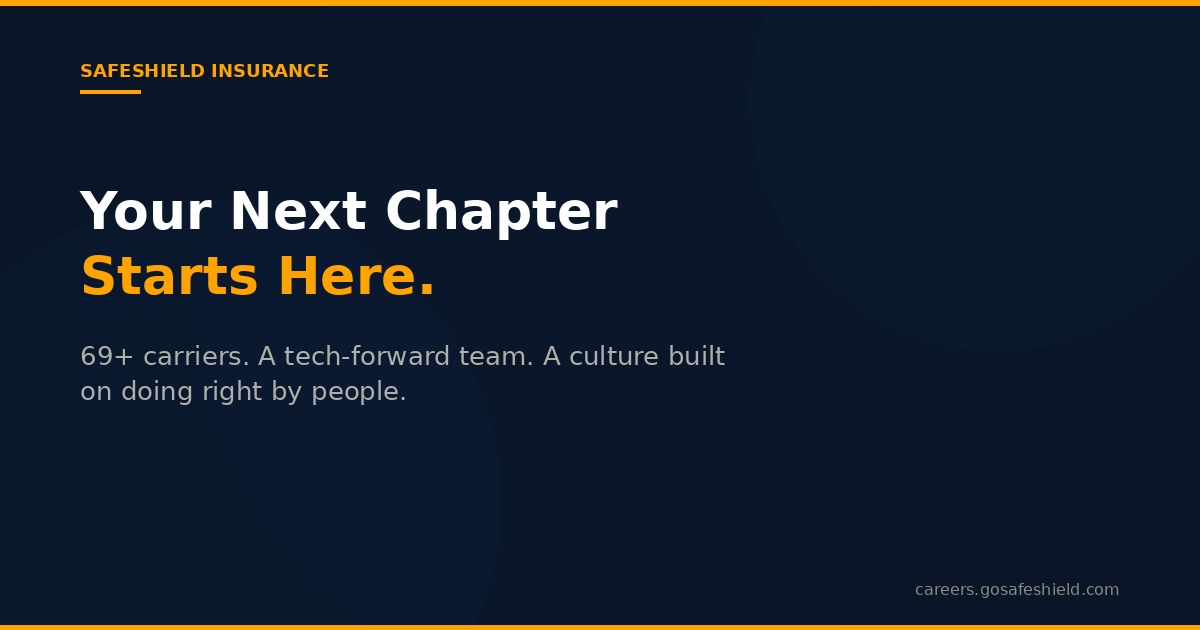
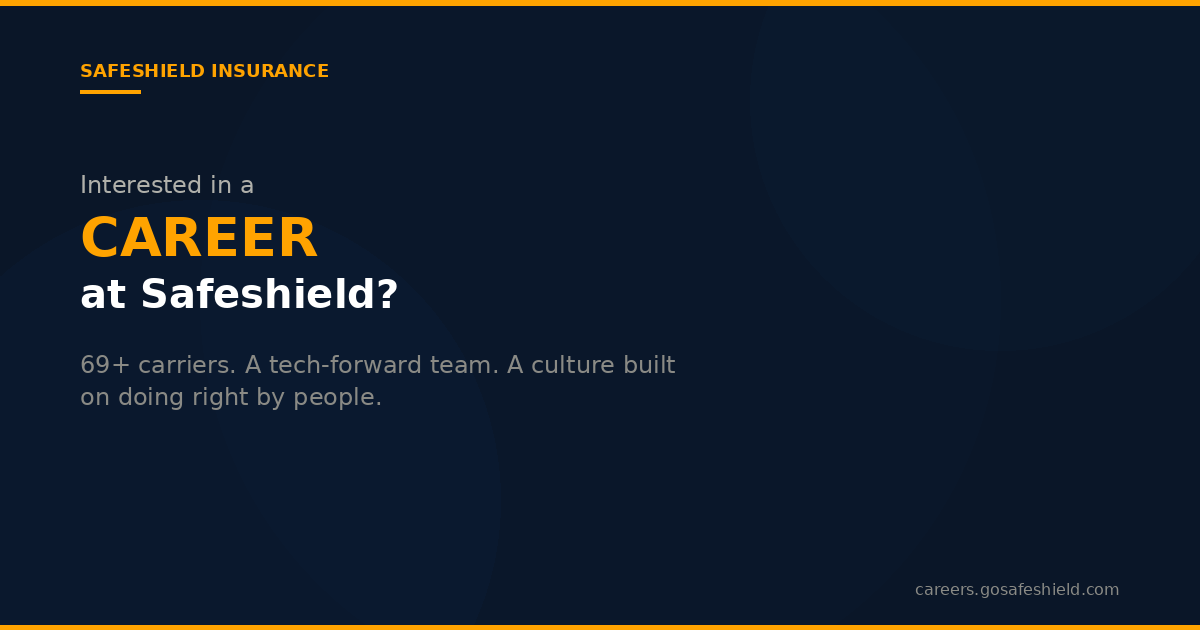
Updated OG image - Interested in a CAREER at Safeshield

Changed region(s): [[0.0617, 0.2714, 0.5242, 0.5127], [0.0617, 0.5429, 0.6167, 0.6635]]

diff --git a/index.html b/index.html
@@ -5,14 +5,14 @@
 <meta name="viewport" content="width=device-width, initial-scale=1.0">
 <title>Safeshield Insurance | Candidate Assessment</title>
 <meta name="description" content="69+ carriers. One mission. Your next chapter starts here.">
-<meta property="og:title" content="Your Next Chapter Starts Here">
-<meta property="og:description" content="Safeshield Insurance is growing. 69+ carriers, a tech-forward team, and a culture built on doing right by people. Ready to see if you're the fit?">
+<meta property="og:title" content="Interested in a Career at Safeshield?">
+<meta property="og:description" content="69+ carriers. A tech-forward team. A culture built on doing right by people. See if you're the fit.">
 <meta property="og:type" content="website">
 <meta property="og:url" content="https://careers.gosafeshield.com">
 <meta property="og:image" content="https://careers.gosafeshield.com/safeshield-og.png">
 <meta name="twitter:card" content="summary_large_image">
-<meta name="twitter:title" content="Your Next Chapter Starts Here">
-<meta name="twitter:description" content="Safeshield Insurance is growing. 69+ carriers, a tech-forward team, and a culture built on doing right by people.">
+<meta name="twitter:title" content="Interested in a Career at Safeshield?">
+<meta name="twitter:description" content="69+ carriers. A tech-forward team. A culture built on doing right by people. See if you're the fit.">
 <link rel="icon" type="image/png" href="https://gosafeshield.com/images/Blue_and_gold_shield_logo.png">
 <link href="https://fonts.googleapis.com/css2?family=Playfair+Display:wght@700;900&family=Outfit:wght@300;400;500;600;700&display=swap" rel="stylesheet">
 <script src="https://cdn.jsdelivr.net/npm/@emailjs/browser@4/dist/email.min.js"></script>
